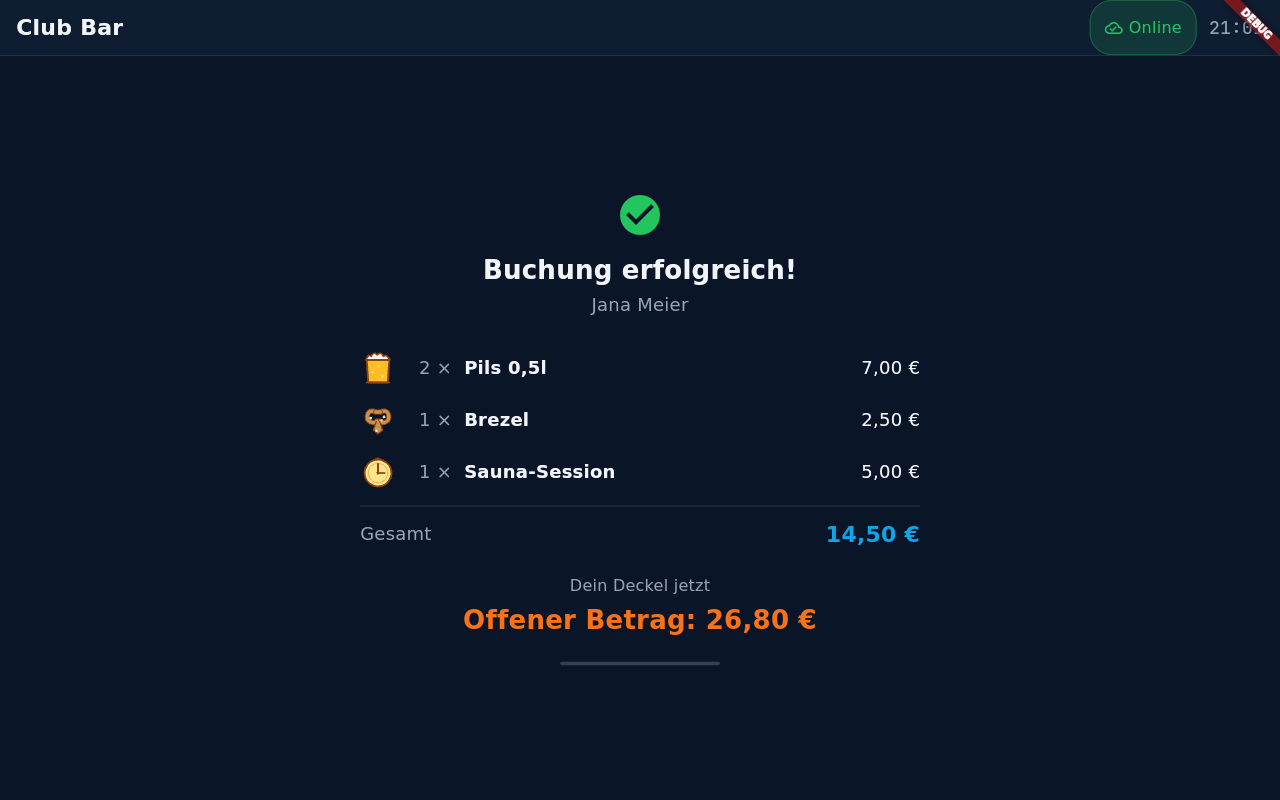
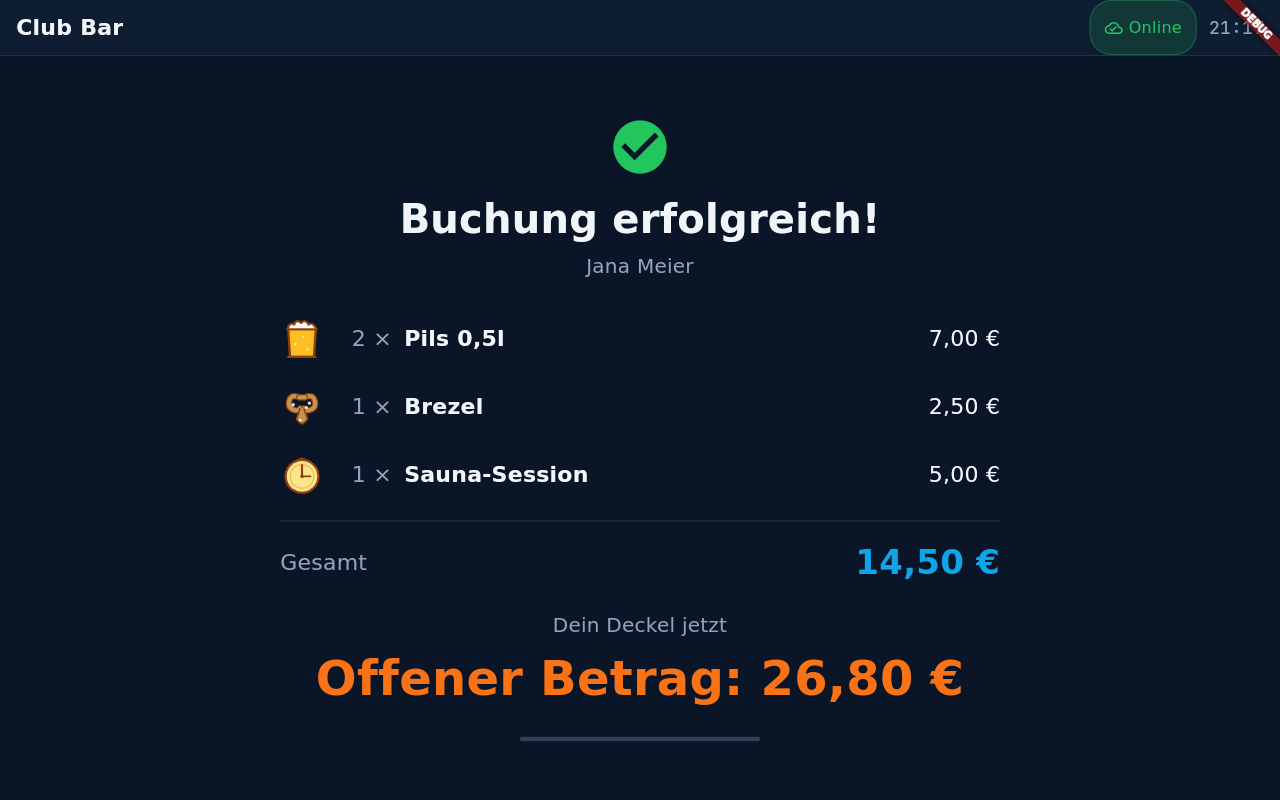
Receipt: hero-sized type, less empty screen
The receipt sat in the middle third of a 1280×800 terminal in type sized
for a phone. Title 40, total 34 and balance 48 (the cart's grand-total
size) are fixed hero sizes, recorded in docs/font-sizes.md beside the idle
headline; line items move from `lg` to `xxl`, the member name, caption and
fallback note to `xl`, icons to 44 and the column to 720. Screenshots
re-captured on the Linux build.

Claude-Session: https://claude.ai/code/session_01Ar6LYjVV3nASHNuPkiKq9a

diff --git a/terminal-frontend/lib/screens/checkout_confirmation_screen.dart b/terminal-frontend/lib/screens/checkout_confirmation_screen.dart
@@ -68,6 +68,15 @@ class CheckoutConfirmationScreen extends StatefulWidget {
       _CheckoutConfirmationScreenState();
 }
 
+/// Hero sizes for the receipt, read standing up from across a bar counter.
+///
+/// Fixed rather than token-driven, like the idle headline and the cart's grand
+/// total (docs/font-sizes.md): they are the receipt's visual identity, and the
+/// three of them are sized against each other, not against the type scale.
+const double _receiptTitleSize = 40.0;
+const double _receiptTotalSize = 34.0;
+const double _receiptBalanceSize = 48.0;
+
 class _CheckoutConfirmationScreenState extends State<CheckoutConfirmationScreen>
     with SingleTickerProviderStateMixin {
   Timer? _autoReturnTimer;
@@ -270,7 +279,7 @@ class _CheckoutConfirmationScreenState extends State<CheckoutConfirmationScreen>
             // Secondary, not muted: this explains why the receipt is thin, so
             // it is text the member has to be able to read (#41).
             color: AppColors.textSecondary,
-            fontSize: AppFontSizes.base,
+            fontSize: AppFontSizes.xl,
           ),
           textAlign: TextAlign.center,
         ),
@@ -292,13 +301,13 @@ class _CheckoutConfirmationScreenState extends State<CheckoutConfirmationScreen>
     required String title,
   }) {
     return [
-      Icon(icon, size: 48, color: iconColor),
+      Icon(icon, size: 64, color: iconColor),
       const SizedBox(height: AppSpacing.md),
       Text(
         title,
-        style: TextStyle(
+        style: const TextStyle(
           color: AppColors.textPrimary,
-          fontSize: AppFontSizes.xxxl,
+          fontSize: _receiptTitleSize,
           fontWeight: FontWeight.w700,
         ),
         textAlign: TextAlign.center,
@@ -308,7 +317,7 @@ class _CheckoutConfirmationScreenState extends State<CheckoutConfirmationScreen>
         _memberName,
         style: TextStyle(
           color: AppColors.textSecondary,
-          fontSize: AppFontSizes.lg,
+          fontSize: AppFontSizes.xl,
         ),
         textAlign: TextAlign.center,
       ),
@@ -319,19 +328,19 @@ class _CheckoutConfirmationScreenState extends State<CheckoutConfirmationScreen>
   /// One booked line: icon, "2 ×", name, what it came to.
   Widget _lineRow(ReceiptLine line) {
     return Padding(
-      padding: const EdgeInsets.symmetric(vertical: AppSpacing.sm),
+      padding: const EdgeInsets.symmetric(vertical: AppSpacing.md),
       child: Row(
         children: [
-          getProductIcon(line.iconName, size: 36),
-          const SizedBox(width: AppSpacing.md),
+          getProductIcon(line.iconName, size: 44),
+          const SizedBox(width: AppSpacing.lg),
           SizedBox(
-            width: 44,
+            width: 52,
             child: Text(
               '${line.quantity} ×',
               textAlign: TextAlign.right,
               style: TextStyle(
                 color: AppColors.textSecondary,
-                fontSize: AppFontSizes.lg,
+                fontSize: AppFontSizes.xxl,
                 fontFeatures: const [FontFeature.tabularFigures()],
               ),
             ),
@@ -344,7 +353,7 @@ class _CheckoutConfirmationScreenState extends State<CheckoutConfirmationScreen>
               overflow: TextOverflow.ellipsis,
               style: TextStyle(
                 color: AppColors.textPrimary,
-                fontSize: AppFontSizes.lg,
+                fontSize: AppFontSizes.xxl,
                 fontWeight: FontWeight.w600,
               ),
             ),
@@ -354,7 +363,7 @@ class _CheckoutConfirmationScreenState extends State<CheckoutConfirmationScreen>
             formatPrice(line.totalCents, _locale),
             style: TextStyle(
               color: AppColors.textPrimary,
-              fontSize: AppFontSizes.lg,
+              fontSize: AppFontSizes.xxl,
               fontFeatures: const [FontFeature.tabularFigures()],
             ),
           ),
@@ -371,8 +380,8 @@ class _CheckoutConfirmationScreenState extends State<CheckoutConfirmationScreen>
     int? originalTotalCents,
   }) {
     return Container(
-      margin: const EdgeInsets.only(top: AppSpacing.sm),
-      padding: const EdgeInsets.only(top: AppSpacing.md),
+      margin: const EdgeInsets.only(top: AppSpacing.md),
+      padding: const EdgeInsets.only(top: AppSpacing.lg),
       decoration: const BoxDecoration(
         border: Border(top: BorderSide(color: AppColors.borderLight)),
       ),
@@ -383,7 +392,7 @@ class _CheckoutConfirmationScreenState extends State<CheckoutConfirmationScreen>
               l10n.cartTotal,
               style: TextStyle(
                 color: AppColors.textSecondary,
-                fontSize: AppFontSizes.lg,
+                fontSize: AppFontSizes.xxl,
               ),
             ),
           ),
@@ -392,7 +401,7 @@ class _CheckoutConfirmationScreenState extends State<CheckoutConfirmationScreen>
               formatPrice(originalTotalCents, _locale),
               style: TextStyle(
                 color: AppColors.textSecondary,
-                fontSize: AppFontSizes.lg,
+                fontSize: AppFontSizes.xxl,
                 decoration: TextDecoration.lineThrough,
                 fontFeatures: const [FontFeature.tabularFigures()],
               ),
@@ -402,11 +411,11 @@ class _CheckoutConfirmationScreenState extends State<CheckoutConfirmationScreen>
           Text(
             formatPrice(billedCents, _locale),
             key: const Key('receipt-total'),
-            style: TextStyle(
+            style: const TextStyle(
               color: AppColors.semanticInfo,
-              fontSize: AppFontSizes.xxl,
+              fontSize: _receiptTotalSize,
               fontWeight: FontWeight.w700,
-              fontFeatures: const [FontFeature.tabularFigures()],
+              fontFeatures: [FontFeature.tabularFigures()],
             ),
           ),
         ],
@@ -426,7 +435,7 @@ class _CheckoutConfirmationScreenState extends State<CheckoutConfirmationScreen>
         l10n.receiptBalanceLabel,
         style: TextStyle(
           color: AppColors.textSecondary,
-          fontSize: AppFontSizes.base,
+          fontSize: AppFontSizes.xl,
         ),
         textAlign: TextAlign.center,
       ),
@@ -436,7 +445,7 @@ class _CheckoutConfirmationScreenState extends State<CheckoutConfirmationScreen>
         key: const Key('receipt-balance'),
         style: TextStyle(
           color: balanceColor(_balanceCents),
-          fontSize: AppFontSizes.xxxl,
+          fontSize: _receiptBalanceSize,
           fontWeight: FontWeight.w700,
         ),
         textAlign: TextAlign.center,
@@ -466,7 +475,7 @@ class _CheckoutConfirmationScreenState extends State<CheckoutConfirmationScreen>
               vertical: AppSpacing.xl,
             ),
             child: ConstrainedBox(
-              constraints: const BoxConstraints(maxWidth: 560),
+              constraints: const BoxConstraints(maxWidth: 720),
               child: Column(
                 mainAxisSize: MainAxisSize.min,
                 children: children,
@@ -497,8 +506,8 @@ class _DwellBar extends StatelessWidget {
       key: const Key('receipt-dwell'),
       value: fraction.toStringAsFixed(2),
       child: SizedBox(
-        width: 160,
-        height: 4,
+        width: 240,
+        height: 5,
         child: ClipRRect(
           borderRadius: BorderRadius.circular(AppBorderRadius.full),
           child: ColoredBox(

diff --git a/terminal-frontend/docs/font-sizes.md b/terminal-frontend/docs/font-sizes.md
@@ -8,11 +8,11 @@ They can be overridden at runtime via the `fontSizes` key in `config.json`
 
 | Token | Default (px) | UI elements |
 |-------|-------------|-------------|
-| `xxxl` | 24 | Checkout receipt title ("Buchung erfolgreich!" / "Nur 3 Tokens ausgegeben") and its balance line ("Offener Betrag: 26,80 €") |
-| `xxl`  | 20 | Cart footer — "Gesamt" label; Product card price; Checkout receipt total |
-| `xl`   | 18 | Cart item quantity badge; Cart item line total; Cart footer "Neuer Kontostand"; Checkout button; Category chip label; Product card product name; Dispenser error dialog title; Member details page AppBar title |
-| `lg`   | 16 | Cart item product name; Empty-cart message; Member info card — member name and avatar initials; Member details page "Account Information" section header; Dispenser error dialog body text and button labels; Checkout receipt member name, line items, "Gesamt" label and struck-through original amount on a partial dispense |
-| `base` | 14 | Cart item "je €X.XX" unit price; Demo scan button; Member info card balance/Deckel; Member details page field labels and values; Dispenser error dialog hint text; Action button label; Checkout receipt "Dein Deckel jetzt" caption and the note on a receipt whose details could not be loaded; `PriceDisplay` (small variant) |
+| `xxxl` | 24 | *(not currently used by any widget)* |
+| `xxl`  | 20 | Cart footer — "Gesamt" label; Product card price; Checkout receipt line items (count, name, line total), its "Gesamt" label and the struck-through original amount on a partial dispense |
+| `xl`   | 18 | Checkout receipt member name, "Dein Deckel jetzt" caption and the note on a receipt whose details could not be loaded; Cart item quantity badge; Cart item line total; Cart footer "Neuer Kontostand"; Checkout button; Category chip label; Product card product name; Dispenser error dialog title; Member details page AppBar title |
+| `lg`   | 16 | Cart item product name; Empty-cart message; Member info card — member name and avatar initials; Member details page "Account Information" section header; Dispenser error dialog body text and button labels |
+| `base` | 14 | Cart item "je €X.XX" unit price; Demo scan button; Member info card balance/Deckel; Member details page field labels and values; Dispenser error dialog hint text; Action button label; `PriceDisplay` (small variant) |
 | `sm`   | 13 | RFID error message on idle screen; Member info card language indicator |
 | `xs`   | 12 | *(not currently used by any widget)* |
 
@@ -27,6 +27,9 @@ are not intended to be operator-configurable.
 | `IdleWaitingScreen` | Main title ("Karte scannen") | 42 | Hero display size |
 | `ShoppingCartScreen` | Grand total price | 48 | Hero display size |
 | `ShoppingCartScreen` | Quantity stepper ＋ / − touch targets | 24 | Touch-target size, same as xxxl |
+| `CheckoutConfirmationScreen` | Receipt title ("Buchung erfolgreich!") | 40 | Hero display size — read standing up, from across the counter |
+| `CheckoutConfirmationScreen` | Receipt total | 34 | Hero display size, sized against the balance below it |
+| `CheckoutConfirmationScreen` | Resulting balance ("Offener Betrag: 26,80 €") | 48 | Hero display size, the same as the cart's grand total — the number the member walks away with |
 
 ## StatusInfoModal (developer overlay)
 
